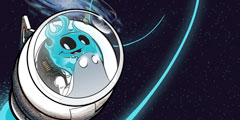
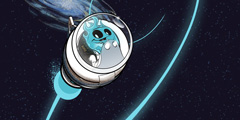
Finished animations for ESK, Ping.

diff --git a/public/assets/css/master.css b/public/assets/css/master.css
@@ -359,6 +359,32 @@ img.typekit-badge {
 	opacity: 0; }
 
 
+.ping-platform figure span.a {
+	background: url(/assets/i/ping-pre-640.jpg) no-repeat; }
+
+.ping-platform figure span.b {
+	width: 70px;
+	height: 90px;
+	left: 400px;
+	top: 18px;
+	background: url(/assets/i/ping-pre-hand.png) no-repeat; }
+
+.ping-platform figure a:hover span.b {
+	-webkit-transform: translate(100px, 0px); }
+
+.ping-platform figure span.c {
+	width: 70px;
+	height: 30px;
+	left: 400px;
+	top: 110px;
+	background: url(/assets/i/ping-pre-hand.png) no-repeat 0 -90px;
+	-webkit-transition-delay: .05s; }
+
+.ping-platform figure a:hover span.c {
+	-webkit-transition-delay: .05s;
+	-webkit-transform: translate(100px, 0px); }
+
+
 .daybreak figure span.a {
 	background: url(/assets/i/daybreak-pre-640a.jpg) no-repeat 0 -1400px;
 	-webkit-transition-property: background-position;
